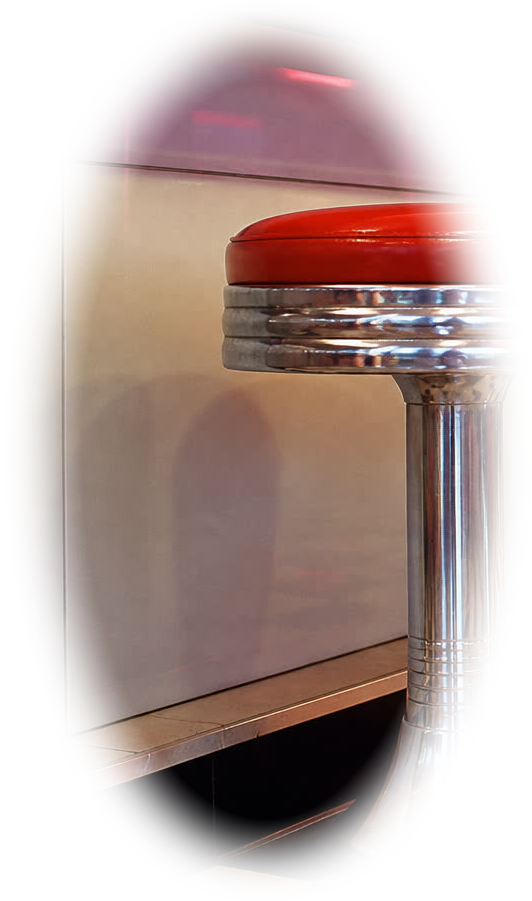
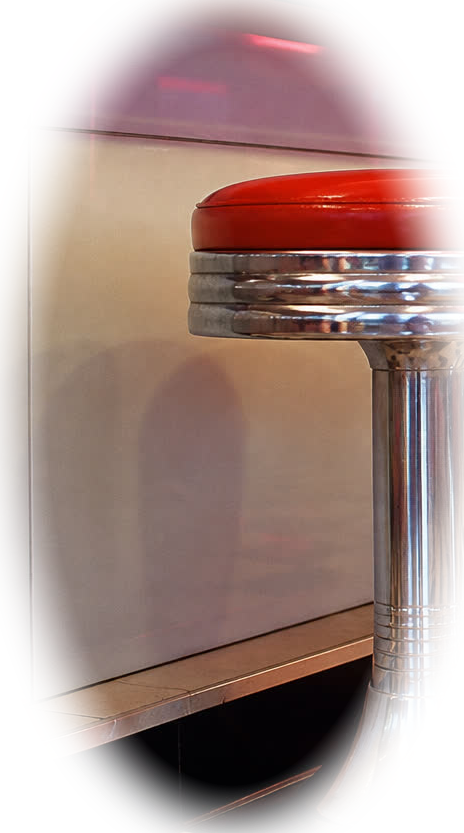
Grow each poster object up to the title
Scale the isolated plates to fill the sheet under the word
so the hamburger and the house plates meet the type.

diff --git a/src/css/imports/base.css b/src/css/imports/base.css
@@ -1105,11 +1105,11 @@ form button {
   display: flex;
   flex-direction: column;
   align-items: center;
-  justify-content: center;
+  justify-content: flex-start;
   text-align: center;
   background: var(--cherry);
   color: #fff;
-  padding: 2.4rem 6% 2.2rem;
+  padding: 1.4rem 4% 1.1rem;
 }
 
 .object-poster-hero {
@@ -1119,8 +1119,8 @@ form button {
 .object-poster-page,
 .object-poster-menu {
   min-height: 0;
-  padding-top: 2.8rem;
-  padding-bottom: 2.6rem;
+  padding-top: 1.8rem;
+  padding-bottom: 1.4rem;
 }
 
 .object-poster-menu {
@@ -1166,15 +1166,19 @@ form button {
 }
 
 .object-poster h1 {
-  margin: 0.35rem 0 0.2rem;
+  margin: 0.2rem 0 0;
   font-size: 8.2rem;
   color: #fff;
+  position: relative;
+  z-index: 1;
 }
 
 .object-poster-mini h2 {
-  margin: 0 0 0.2rem;
+  margin: 0;
   font-size: 4.4rem;
   color: #fff;
+  position: relative;
+  z-index: 1;
 }
 
 .object-poster-gold h1,
@@ -1208,34 +1212,51 @@ form button {
 }
 
 .object-figure {
-  margin: 0.4rem 0 0;
-  width: 86%;
-  max-width: 36rem;
+  margin: -1.35rem 0 0;
+  width: 100%;
+  max-width: none;
+  flex: 1 1 auto;
+  display: flex;
+  align-items: flex-start;
+  justify-content: center;
+  min-height: 0;
 }
 
 .object-poster-hero .object-figure {
-  max-width: 40rem;
+  width: 100%;
 }
 
 .object-poster-mini .object-figure {
-  width: 92%;
-  max-width: 22rem;
-  flex: 1 1 auto;
-  display: flex;
-  align-items: center;
-  justify-content: center;
+  width: 100%;
 }
 
 .object-figure img {
+  display: block;
   width: 100%;
   height: auto;
-  max-height: 48vh;
+  max-width: 58rem;
+  max-height: none;
   object-fit: contain;
+  object-position: top center;
   filter: contrast(1.08) saturate(0.94);
 }
 
+.object-poster-hero .object-figure img {
+  max-width: 72rem;
+  height: calc(100vh - 16rem);
+  width: auto;
+}
+
+.object-poster-page .object-figure img {
+  max-width: 46rem;
+  height: 28rem;
+  width: auto;
+}
+
 .object-poster-mini .object-figure img {
-  max-height: 16rem;
+  height: 22rem;
+  width: auto;
+  max-width: 100%;
 }
 
 .object-row {
@@ -1246,8 +1267,8 @@ form button {
 .object-poster-mini {
   flex: 1 1 14rem;
   min-width: 12rem;
-  min-height: 26rem;
-  padding: 1.5rem 1rem 1.7rem;
+  min-height: 28rem;
+  padding: 1rem 0.6rem 0.8rem;
   justify-content: flex-start;
 }
 
@@ -1435,12 +1456,18 @@ form button {
 
   .object-figure,
   .object-poster-hero .object-figure {
-    max-width: 22rem;
+    max-width: none;
   }
 
-  .object-figure img,
+  .object-poster-hero .object-figure img {
+    height: 22rem;
+    max-width: 100%;
+  }
+
+  .object-poster-page .object-figure img,
   .object-poster-mini .object-figure img {
-    max-height: 15rem;
+    height: 18rem;
+    max-width: 100%;
   }
 
   .object-poster-mini {
